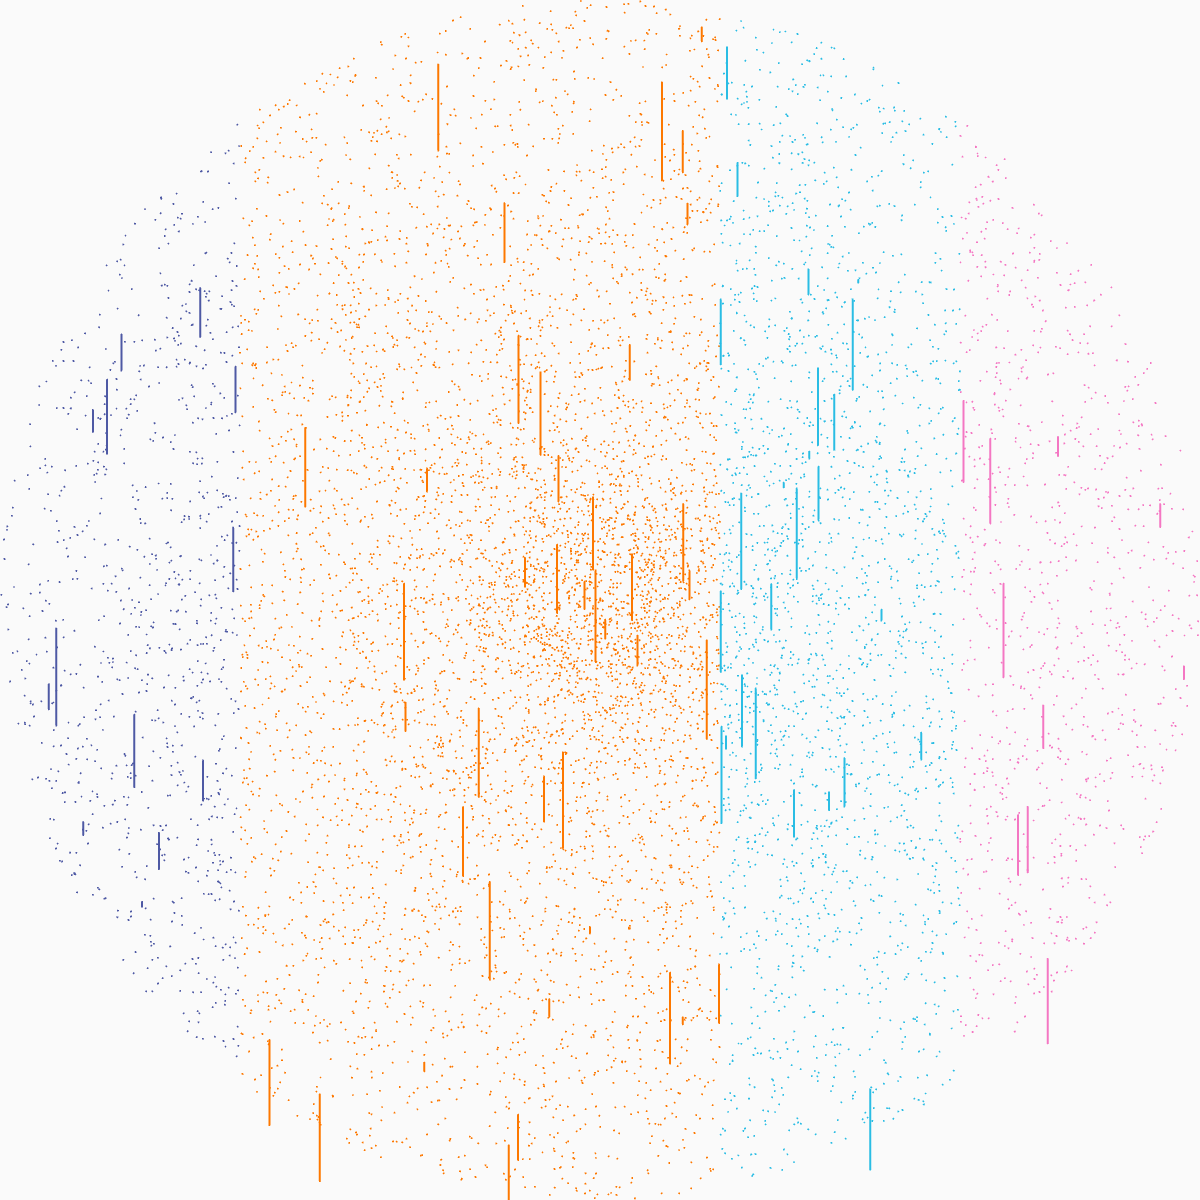
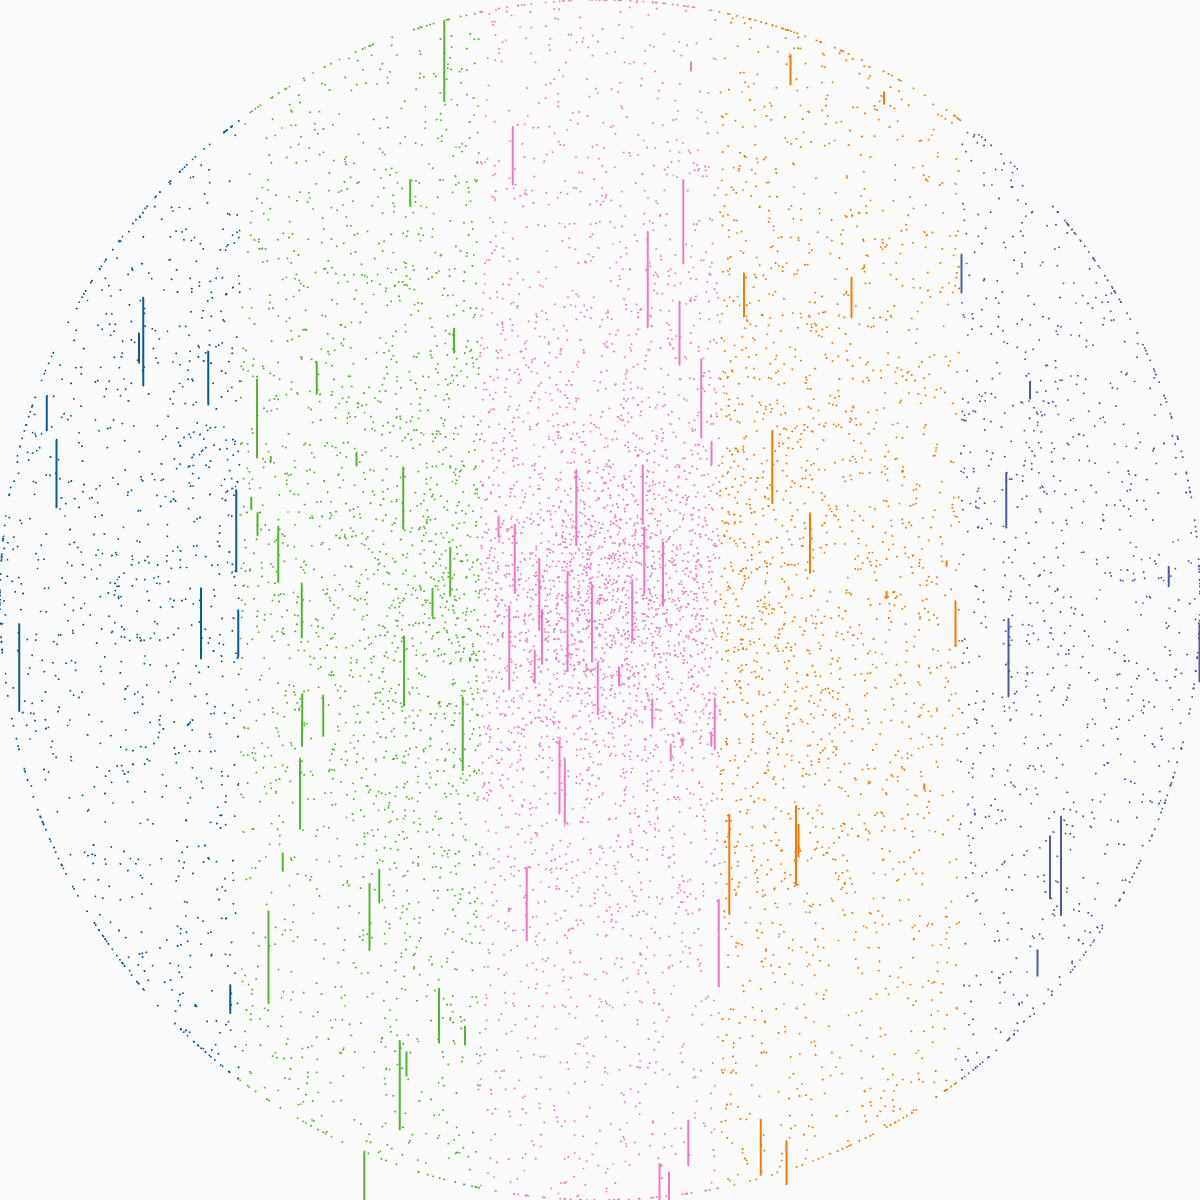
feat: tweak

diff --git a/DAILY/2023/07/0730_2/app.js b/DAILY/2023/07/0730_2/app.js
@@ -29,10 +29,10 @@ function setup() {
   for (let i = 0; i < NUM; i++) {
     let a = random(TAU);
     let r = random(W / 2);
-    if (r < 5 && random() < 0.6) r = random(W / 4, W / 2);
-    if (r < 10 && random() < 0.5) r = random(W / 4, W / 2);
-    if (r < 20 && random() < 0.4) r = random(W / 4, W / 2);
-    if (r < 30 && random() < 0.3) r = random(W / 4, W / 2);
+    if (r < 5 && random() < 0.6) r = W / 2;
+    if (r < 10 && random() < 0.5) r = W / 2;
+    if (r < 20 && random() < 0.4) r = W / 2;
+    if (r < 30 && random() < 0.3) r = W / 2;
     let x = r * cos(a);
     let y = r * sin(a);
     if (x < -(W / 2 - W / 5)) {
